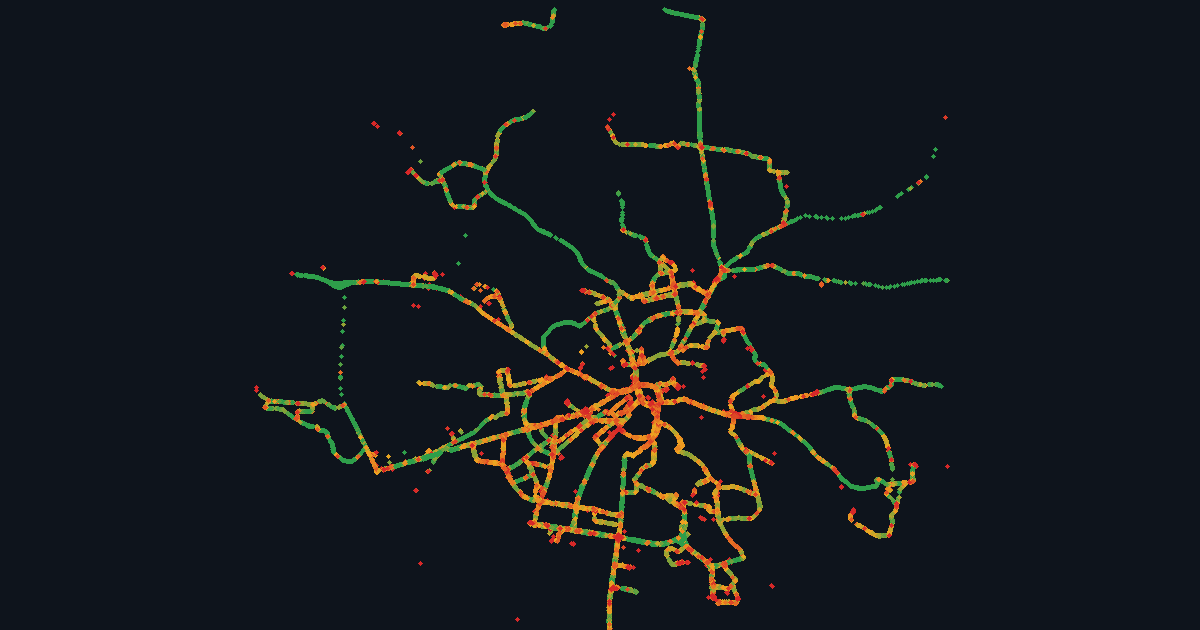
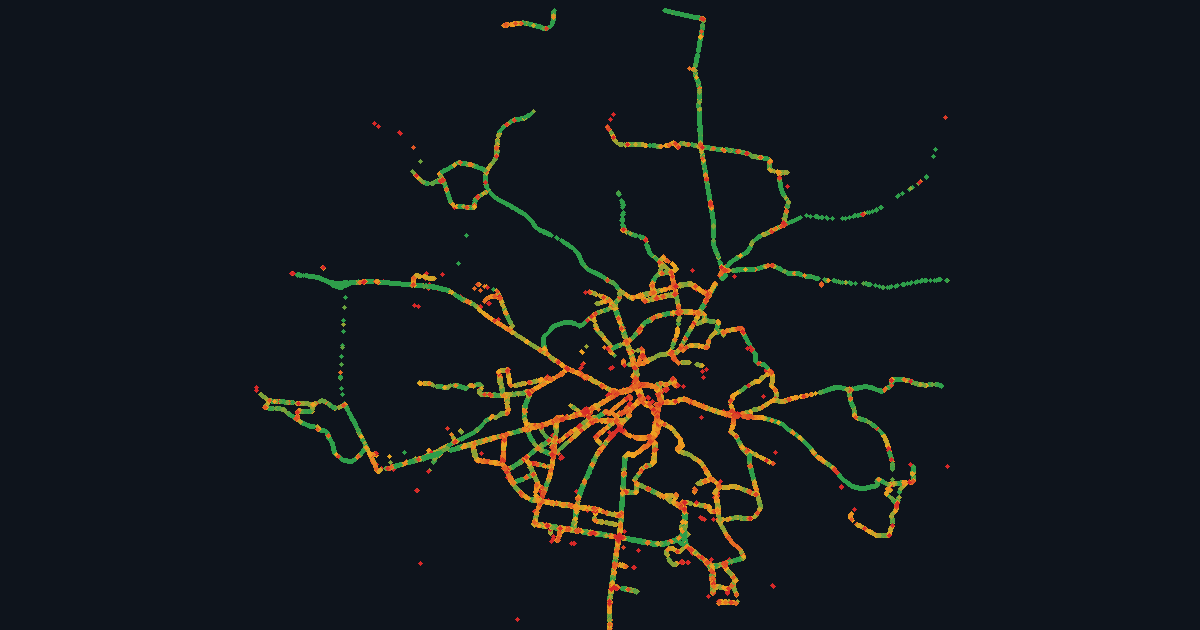
Shareable URLs, GitHub link, WTFPL, build-time depot mask
The month, hour and statistic now live in the query string, so a view can be
linked. The canonical link stays on the bare homepage: one page worth indexing,
not a hundred near-identical ones. Slider moves use replaceState so dragging it
does not bury the previous page in history.

Adds a visible GitHub link in the panel and in the metadata (author, rel=author,
JSON-LD creator), and the WTFPL, which is what the project is under. The data
behind it is not mine to relicense and the README says so.

Depot discovery now consults only the *nearest* stop. One terminus survived the
previous fix because an unrelated route's ordinary stop happened to sit 102 m
away and shielded it — 123k samples at 1.2 km/h left sitting on the map. Five
more sites, 78 in total.

The mask is now also applied in build_web, dropping whole cells inside a zone.
Discovering a new depot used to mean a two-hour re-ingest before anyone could
see the fix; now `make build` shows it in seconds, and the re-ingest becomes a
tidy-up rather than a blocker.

diff --git a/web/index.html b/web/index.html
@@ -11,6 +11,10 @@
     />
     <link rel="canonical" href="https://gtfs-speedmap.vbhjckfd.workers.dev/" />
     <meta name="robots" content="index, follow" />
+    <meta name="author" content="Myroslav Holyak" />
+    <link rel="author" href="https://github.com/vbhjckfd" />
+    <link rel="license" href="http://www.wtfpl.net/txt/copying/" />
+    <link rel="code-repository" href="https://github.com/vbhjckfd/gtfs-speedmap" />
     <meta name="theme-color" content="#0e141c" />
     <meta name="color-scheme" content="light" />
     <link rel="icon" href="favicon.svg" type="image/svg+xml" />
@@ -52,7 +56,8 @@
         "name": "Lviv bus running speeds by hour and month",
         "description": "Average bus speed per 25 m grid cell in Lviv, Ukraine, aggregated by hour of day and month from archived GTFS-RT vehicle positions. Positions within 40 m of a stop on the vehicle's own trip are excluded, so the figures describe running speed rather than dwell time. Trolleybuses and trams are excluded.",
         "url": "https://gtfs-speedmap.vbhjckfd.workers.dev/",
-        "license": "https://opendatacommons.org/licenses/odbl/",
+        "license": "http://www.wtfpl.net/txt/copying/",
+        "codeRepository": "https://github.com/vbhjckfd/gtfs-speedmap",
         "keywords": [
           "Lviv",
           "public transport",
@@ -69,7 +74,12 @@
             "box": "49.70 23.85 49.95 24.20"
           }
         },
-        "creator": { "@type": "Person", "name": "Myroslav Holyak" },
+        "creator": {
+          "@type": "Person",
+          "name": "Myroslav Holyak",
+          "url": "https://github.com/vbhjckfd",
+          "sameAs": ["https://github.com/vbhjckfd"]
+        },
         "isBasedOn": "https://track.ua-gis.com/gtfs/lviv/vehicle_position"
       }
     </script>
@@ -119,6 +129,18 @@
       <p class="note" id="note">
         Buses only. Positions near a stop on the vehicle's own trip are excluded, so this is
         running speed.
+      </p>
+
+      <p class="credit">
+        <a href="https://github.com/vbhjckfd/gtfs-speedmap" target="_blank" rel="noopener">
+          <svg viewBox="0 0 16 16" width="13" height="13" aria-hidden="true">
+            <path
+              fill="currentColor"
+              d="M8 0C3.58 0 0 3.58 0 8c0 3.54 2.29 6.53 5.47 7.59.4.07.55-.17.55-.38 0-.19-.01-.82-.01-1.49-2.01.37-2.53-.49-2.69-.94-.09-.23-.48-.94-.82-1.13-.28-.15-.68-.52-.01-.53.63-.01 1.08.58 1.23.82.72 1.21 1.87.87 2.33.66.07-.52.28-.87.51-1.07-1.78-.2-3.64-.89-3.64-3.95 0-.87.31-1.59.82-2.15-.08-.2-.36-1.02.08-2.12 0 0 .67-.21 2.2.82.64-.18 1.32-.27 2-.27s1.36.09 2 .27c1.53-1.04 2.2-.82 2.2-.82.44 1.1.16 1.92.08 2.12.51.56.82 1.27.82 2.15 0 3.07-1.87 3.75-3.65 3.95.29.25.54.73.54 1.48 0 1.07-.01 1.93-.01 2.2 0 .21.15.46.55.38A8.01 8.01 0 0 0 16 8c0-4.42-3.58-8-8-8Z"
+            />
+          </svg>
+          Source, method &amp; contact on GitHub
+        </a>
       </p>
     </div>
 

diff --git a/web/app.js b/web/app.js
@@ -179,6 +179,43 @@ function selectionKey() {
   return `${month}-${hour}`;
 }
 
+/* ---------- shareable URL ---------- */
+
+// The selection lives in the query string so a view can be linked. The
+// canonical link stays on the bare homepage, so search engines index one page
+// rather than a hundred near-identical ones.
+function writeUrl() {
+  const params = new URLSearchParams({
+    month: els.month.value,
+    hour: els.allHours.checked ? "all" : String(els.hour.value).padStart(2, "0"),
+    stat: els.metric.value,
+  });
+  // replaceState, not pushState: dragging the slider must not bury the user's
+  // previous page under twenty history entries.
+  history.replaceState(null, "", `?${params}`);
+}
+
+function readUrl() {
+  const params = new URLSearchParams(location.search);
+
+  const month = params.get("month");
+  if (month && [...els.month.options].some((o) => o.value === month)) {
+    els.month.value = month;
+  }
+
+  const hour = params.get("hour");
+  if (hour === "all") {
+    els.allHours.checked = true;
+  } else if (hour !== null && index.hours.includes(Number(hour))) {
+    els.hour.value = String(Number(hour));
+  }
+
+  const stat = params.get("stat");
+  if (stat && [...els.metric.options].some((o) => o.value === stat)) {
+    els.metric.value = stat;
+  }
+}
+
 async function fetchSelection(key) {
   if (CACHE.has(key)) return CACHE.get(key);
   const promise = fetch(`${DATA}/${key}.json`)
@@ -217,6 +254,7 @@ function describe(count) {
 async function render() {
   const key = selectionKey();
   const seq = ++requestSeq;
+  writeUrl();
   try {
     const payload = await fetchSelection(key);
     if (seq !== requestSeq) return; // a newer selection won
@@ -305,6 +343,7 @@ async function boot() {
   els.hour.max = String(hours[hours.length - 1]);
   els.hour.value = String(hours.includes(8) ? 8 : hours[0]);
 
+  readUrl();
   paintLegend();
   syncHourLabel();
   els.note.textContent =
@@ -327,6 +366,7 @@ async function boot() {
   });
   // Every statistic is already in the loaded payload, so this is a repaint.
   els.metric.addEventListener("change", () => {
+    writeUrl();
     dots.redraw();
     if (current) els.subtitle.textContent = describe(current.lat.length);
   });

diff --git a/web/style.css b/web/style.css
@@ -122,6 +122,26 @@ input[type="range"] {
   color: var(--muted);
 }
 
+.credit {
+  margin: 10px 0 0;
+  padding-top: 9px;
+  border-top: 1px solid var(--border);
+  font-size: 11px;
+}
+
+.credit a {
+  display: inline-flex;
+  gap: 5px;
+  align-items: center;
+  color: #3b6ea5;
+  text-decoration: none;
+}
+
+.credit a:hover,
+.credit a:focus-visible {
+  text-decoration: underline;
+}
+
 /* Present to crawlers and screen readers, absent from the map. */
 .visually-hidden {
   position: absolute;

diff --git a/src/speedmap/build_web.py b/src/speedmap/build_web.py
@@ -20,6 +20,8 @@ from datetime import date
 
 import pandas as pd
 
+from .depots import load_sites
+from .utm import project_xy
 from .config import (
     AGG_DIR,
     CELL_SIZE_M,
@@ -95,6 +97,30 @@ def _medians(bins: pd.DataFrame) -> pd.Series:
     return (first + 0.5) * HIST_BIN_KMH
 
 
+def _masked_cells(cells: pd.DataFrame) -> pd.Series:
+    """True for cells sitting inside a discovered depot or layover zone.
+
+    aggregate.py already drops these samples, so this only matters when a zone
+    was added after the last ingest — it makes a widened mask show up in the
+    map immediately, instead of after another pass over R2.
+    """
+    sites = load_sites()
+    if not sites or cells.empty:
+        return pd.Series(False, index=cells.index)
+
+    xy = [project_xy(lon, lat) for lat, lon in zip(cells["lat"], cells["lon"])]
+    inside = []
+    for x, y in xy:
+        hit = False
+        for site in sites:
+            sx, sy = project_xy(site["lon"], site["lat"])
+            if (sx - x) ** 2 + (sy - y) ** 2 <= site["radius_m"] ** 2:
+                hit = True
+                break
+        inside.append(hit)
+    return pd.Series(inside, index=cells.index)
+
+
 def _payload(group: pd.DataFrame, bins: pd.DataFrame) -> dict:
     """Collapse one (month, hour) selection to parallel arrays, ordered by
     sample count so the busiest cells are drawn last and stay on top."""
@@ -103,7 +129,10 @@ def _payload(group: pd.DataFrame, bins: pd.DataFrame) -> dict:
         .sum()
         .reset_index()
     )
-    cells = cells[cells["n"] >= MIN_SAMPLES].sort_values("n")
+    cells = cells[cells["n"] >= MIN_SAMPLES]
+    cells["lat"] = cells["sum_lat"] / cells["n"]
+    cells["lon"] = cells["sum_lon"] / cells["n"]
+    cells = cells[~_masked_cells(cells)].sort_values("n")
     if cells.empty:
         return {"lat": [], "lon": [], "v": [], "med": [], "n": []}
 
@@ -117,8 +146,8 @@ def _payload(group: pd.DataFrame, bins: pd.DataFrame) -> dict:
 
     n = cells["n"].to_numpy()
     return {
-        "lat": (cells["sum_lat"].to_numpy() / n).round(5).tolist(),
-        "lon": (cells["sum_lon"].to_numpy() / n).round(5).tolist(),
+        "lat": cells["lat"].to_numpy().round(5).tolist(),
+        "lon": cells["lon"].to_numpy().round(5).tolist(),
         "v": (cells["sum_speed"].to_numpy() / n * MPS_TO_KMH).round(1).tolist(),
         "med": med_values,
         "n": n.astype(int).tolist(),

diff --git a/src/speedmap/depots.py b/src/speedmap/depots.py
@@ -85,29 +85,31 @@ def _away_from_stops(cells: pd.DataFrame, feed) -> pd.DataFrame:
 
     bucket = max(DEPOT_MIN_DIST_TO_STOP_M, 100.0)
     reach = math.ceil(DEPOT_MIN_DIST_TO_STOP_M / bucket)
-    index: dict[tuple[int, int], list[tuple[float, float]]] = defaultdict(list)
+    index: dict[tuple[int, int], list[tuple[float, float, bool]]] = defaultdict(list)
     for stop_id, (sx, sy) in feed.stop_xy.items():
-        if stop_id in terminals:
-            continue
-        index[(int(sx // bucket), int(sy // bucket))].append((sx, sy))
+        index[(int(sx // bucket), int(sy // bucket))].append((sx, sy, stop_id in terminals))
 
     limit = DEPOT_MIN_DIST_TO_STOP_M**2
     keep = []
     for lat, lon in zip(cells["lat"], cells["lon"]):
         x, y = project_xy(lon, lat)
         bx, by = int(x // bucket), int(y // bucket)
-        near = False
+
+        # What matters is the *nearest* stop, not merely whether some mid-route
+        # stop happens to be in range. A terminus 70 m away with another
+        # route's ordinary stop 100 m away is still a terminus, and the layover
+        # that fills it was being hidden by that second stop.
+        nearest = limit
+        nearest_is_terminal = False
         for dx in range(-reach, reach + 1):
             for dy in range(-reach, reach + 1):
-                for sx, sy in index.get((bx + dx, by + dy), ()):
-                    if (sx - x) ** 2 + (sy - y) ** 2 <= limit:
-                        near = True
-                        break
-                if near:
-                    break
-            if near:
-                break
-        keep.append(not near)
+                for sx, sy, is_terminal in index.get((bx + dx, by + dy), ()):
+                    d2 = (sx - x) ** 2 + (sy - y) ** 2
+                    if d2 < nearest:
+                        nearest = d2
+                        nearest_is_terminal = is_terminal
+        shielded = nearest < limit and not nearest_is_terminal
+        keep.append(not shielded)
     return cells[pd.Series(keep, index=cells.index)]
 
 

diff --git a/README.md b/README.md
@@ -54,13 +54,15 @@ A junction that jams at rush hour fails that last test; a yard full of parked bu
 05:00 and at 23:00 alike. Neighbouring cells are clustered into one site, and the site radius is its
 observed extent plus `DEPOT_PAD_M`.
 
-Terminal stops deliberately do not shield a cell from being called a depot. The layover sprawls
-past the terminal stop by more than any fixed radius covers: the forecourt of the Двірцевий bus
-station, the far end of Городоцька, and the ends of the Рясне-2, Голоско, Сихів and Ряшівська routes
-all sit at 0–1.5 km/h for fifteen-plus hours a day. Requiring distance from *every* stop hid exactly
-the sites worth finding. Dwell at an ordinary stop is already handled by `STOP_RADIUS_M`.
+Terminal stops deliberately do not shield a cell from being called a depot, and only the **nearest**
+stop is consulted. The layover sprawls past the terminal stop by more than any fixed radius covers:
+the forecourt of the Двірцевий bus station, the far end of Городоцька, and the ends of the Рясне-2,
+Голоско, Сихів and Ряшівська routes all sit at 0–1.5 km/h for fifteen-plus hours a day. Requiring
+distance from *every* stop hid exactly the sites worth finding — one terminus stayed hidden even
+after that was fixed, because an unrelated route's ordinary stop happened to sit 102 m away. Dwell
+at an ordinary stop is already handled by `STOP_RADIUS_M`.
 
-Over 88 days this finds **73 sites holding ~4M samples**. Spot-checked against OpenStreetMap, they
+Over 88 days this finds **78 sites holding ~4.4M samples**. Spot-checked against OpenStreetMap, they
 are what they claim to be: the two largest are tagged `amenity=parking` (Збиральна, Авіаційна), and
 the rest are route termini and the bus station.
 
@@ -75,6 +77,12 @@ already been filtered away — plain `discover` refuses to overwrite an existing
 for that reason. Use `--merge` to widen the mask from already-masked aggregates: it keeps every
 known site and adds only what the new pass turns up. The order is: ingest, discover, then
 `ingest-all --force`.
+
+The mask is applied twice: `aggregate.py` drops the samples at ingest, and `build_web.py` drops
+whole cells that land inside a zone. The second pass is what makes a widened mask visible after a
+`make build` of a few seconds, instead of another couple of hours over R2. Re-ingesting afterwards
+is still worth doing — it also clears those samples out of neighbouring cells' histograms — but it
+is no longer the thing standing between a fix and a deploy.
 
 ## Average or median
 
@@ -131,12 +139,26 @@ Every knob lives in `src/speedmap/config.py` and reads an env var of the same na
 | `DEPOT_MAX_KMH` | 4 | How slow a cell must be to be depot-like. |
 | `DEPOT_MIN_SAMPLES` | 300 | How busy. |
 | `DEPOT_MIN_HOURS` | 10 | In how many separate hours — what separates a yard from a jam. |
-| `DEPOT_MIN_DIST_TO_STOP_M` | 120 | How far from any stop, so dwell is not mistaken for parking. |
+| `DEPOT_MIN_DIST_TO_STOP_M` | 120 | How far the nearest mid-route stop must be, so dwell is not mistaken for parking. |
 | `DEPOT_PAD_M` | 40 | Grown onto each site's observed extent. |
 | `SCALE_LOW_KMH` / `SCALE_HIGH_KMH` | 5 / 35 | Colour ramp ends. Measured cell speeds: p25 ≈ 13, p50 ≈ 21, p90 ≈ 41 km/h. |
 
 Changing a filter means re-running `make ingest-all --force`; changing `MIN_SAMPLES` or the colour
 scale only needs `make build`.
+
+## Sharing a view
+
+The month, hour and statistic live in the query string, so any view can be linked:
+
+```
+https://gtfs-speedmap.vbhjckfd.workers.dev/?month=2026-07&hour=08&stat=med
+```
+
+`month` takes `all` or `YYYY-MM`, `hour` takes `all` or `00`–`23`, `stat` takes `v` (average) or
+`med` (median). Anything unrecognised falls back to the default rather than erroring. The canonical
+link stays on the bare homepage on purpose — one page for search engines to index, not a hundred
+near-identical ones. Slider moves use `replaceState`, so dragging it does not bury the previous page
+under twenty history entries.
 
 ## Known artefacts
 
@@ -145,3 +167,15 @@ scale only needs `make build`.
 - Hours 00:00–04:00 are absent: the collector does not poll then.
 - `static/` archives only start 2026-07-31, so earlier days are matched against the oldest archive.
   About 35% of May trip_ids no longer exist there, which is what the route+direction fallback covers.
+
+## Licence
+
+[WTFPL](LICENSE). Do what the fuck you want to.
+
+The data behind it is not mine to relicense: vehicle positions come from the Lviv operator's
+GTFS-RT feed, and the basemap is © OpenStreetMap contributors.
+
+## Contact
+
+[github.com/vbhjckfd/gtfs-speedmap](https://github.com/vbhjckfd/gtfs-speedmap) — issues and pull
+requests welcome.
